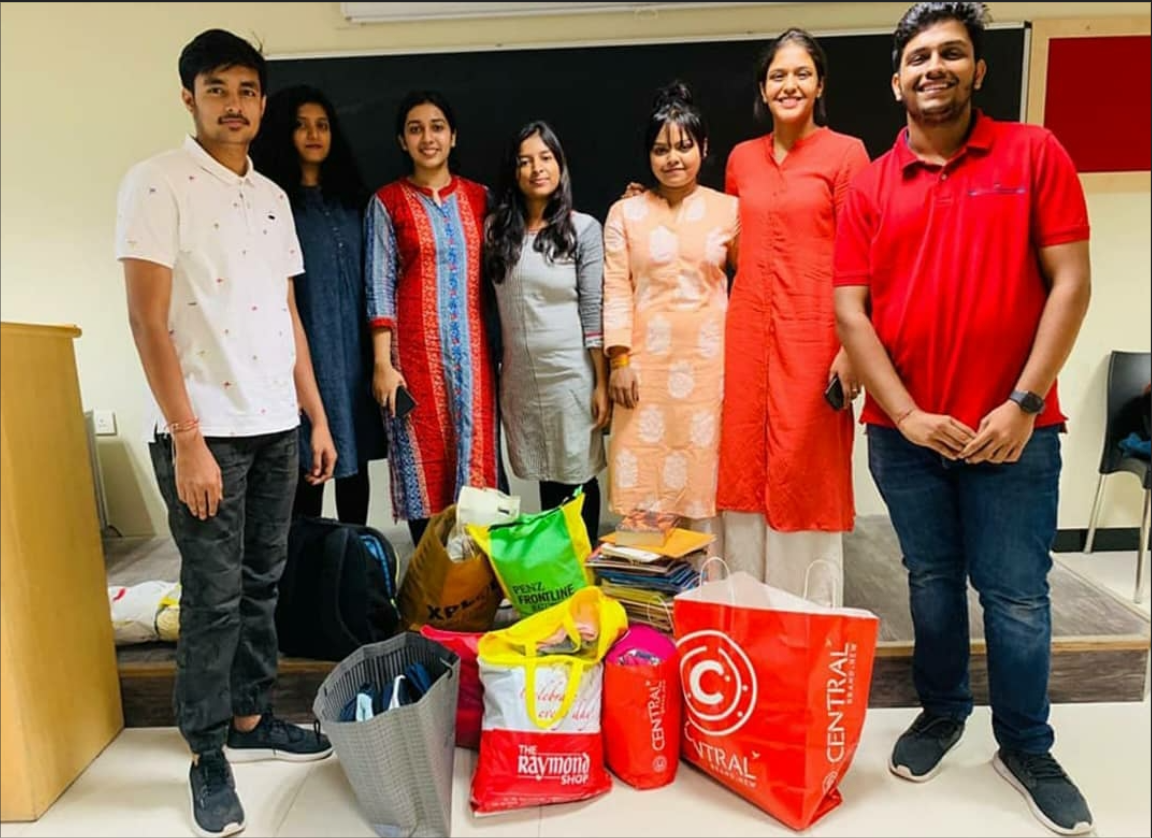
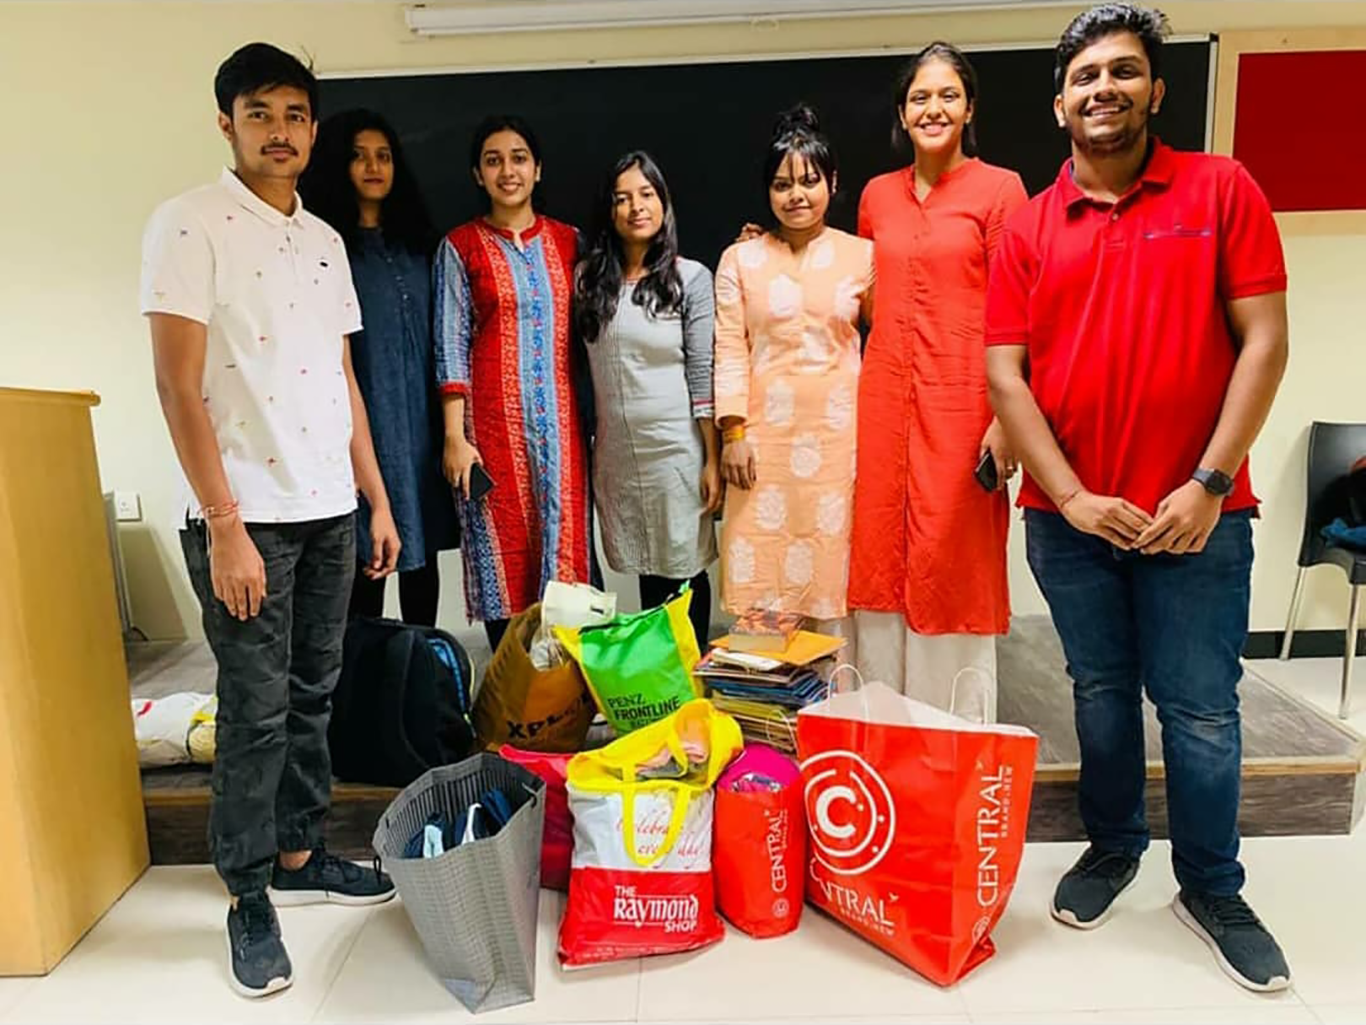
added photo in about and adjusted margin

diff --git a/public/sass/modules/_carousel.scss b/public/sass/modules/_carousel.scss
@@ -1,11 +1,9 @@
 .carousel {
     //do not change any contents/property of this class. make a separate class to overwrite the properties of this class.
-    
     --carousel-height: auto;
     //--carousel-max-height: 100vh;
     --carousel-min-height: 100vh;
     --carousel-width: 100%;
-
     overflow: hidden;
     min-height: var(--carousel-min-height);
     background-color: $grey;
@@ -50,11 +48,7 @@
             bottom: 20px;
             z-index: 12;
             .indicator {
-                @include circular-button(
-                    rgba($color: #000000, $alpha: 0.3),
-                    5px,
-                    20px
-                );
+                @include circular-button(rgba($color: #000000, $alpha: 0.3), 5px, 20px);
                 border: solid 2px $pink;
             }
             .active-dot {
@@ -70,11 +64,7 @@
             text-align: center;
             .pause-button,
             .play-button {
-                @include circular-button(
-                    rgba($color: #000000, $alpha: 0.3),
-                    0px,
-                    40px
-                );
+                @include circular-button(rgba($color: #000000, $alpha: 0.3), 0px, 40px);
                 border-style: none;
                 font-size: 40px;
                 position: relative;
@@ -97,8 +87,9 @@
         }
     }
 }
+
 .photo-carousel {
-     //make changes to carousel class properties here in this separate class to suit your carousel needs
+    //make changes to carousel class properties here in this separate class to suit your carousel needs
     --carousel-height: auto;
     --carousel-min-height: 100vh;
     --carousel-width: 100%;
@@ -122,6 +113,7 @@
         }
     }
 }
+
 .photo-carousel2 {
     //make changes to carousel class properties here in this separate class to suit your carousel needs
     --carousel-height: auto;
@@ -150,17 +142,12 @@
             align-items: center;
             padding: 5px 0;
             border-radius: 0 25px 0 0;
-
             .tracks-navbar {
                 margin-left: 30px;
                 position: static;
                 z-index: 12;
                 .indicator {
-                    @include circular-button(
-                        rgba($color: #000000, $alpha: 0.3),
-                        5px,
-                        20px
-                    );
+                    @include circular-button(rgba($color: #000000, $alpha: 0.3), 5px, 20px);
                     border: solid 2px $pink;
                 }
                 .active-dot {
@@ -174,11 +161,7 @@
                 position: static;
                 .pause-button,
                 .play-button {
-                    @include circular-button(
-                        rgba($color: #000000, $alpha: 0.3),
-                        0px,
-                        40px
-                    );
+                    @include circular-button(rgba($color: #000000, $alpha: 0.3), 0px, 40px);
                     border-style: none;
                     font-size: 40px;
                     position: relative;
@@ -209,7 +192,6 @@
     --carousel-height: auto;
     --carousel-min-height: 100vh;
     --carousel-width: 100%;
-
     margin: 0 auto;
     border-radius: 25px;
     box-shadow: 5px 5px 50px rgba(0, 0, 0, 0.2);
@@ -225,11 +207,7 @@
                         position: absolute;
                         top: 0;
                         left: 0;
-                        background: linear-gradient(
-                            to right,
-                            rgba(0, 0, 0, 0.95) 0%,
-                            #ffffff00 100%
-                        );
+                        background: linear-gradient(to right, rgba(0, 0, 0, 0.95) 0%, #ffffff00 100%);
                     }
                     .about {
                         min-height: 120px;
@@ -276,25 +254,23 @@
     }
 }
 
-.about-carousel{
+.about-carousel {
     //make changes to carousel class properties here in this separate class to suit your carousel needs
     margin: 0 auto;
-    --carousel-min-height: 170px;
+    --carousel-min-height: 280px;
     --carousel-width: 27vw;
-
-    @media(max-width:992.5px){
-        margin-top:40px;
+    @media(max-width: 992.5px) {
+        margin-top: 40px;
         --carousel-min-height: 50vw;
         --carousel-width: 80vw;
     }
     .carousel-container {
-        .tracks-container{
-        }
-        .tracks-navbar{
+        .tracks-container {}
+        .tracks-navbar {
             left: 1vw;
             bottom: 10px;
         }
-        .pause-button-container{
+        .pause-button-container {
             right: 1vw;
             bottom: 0px;
         }

diff --git a/about.html b/about.html
@@ -15,11 +15,12 @@
 
     <!-- stylesheet -->
     <link rel="shortcut icon" href="public/img/favicon.png" type="image/x-icon" />
-    <link rel="stylesheet" href="public/css/app.min.css" /> <!--css stylesheet: committed by @ashuvssut* -->
+    <link rel="stylesheet" href="public/css/app.min.css" />
+    <!--css stylesheet: committed by @ashuvssut* -->
     <link rel="stylesheet" href="public/css/style.css">
     <!--Fonts -->
     <link href="https://fonts.googleapis.com/css2?family=Muli:wght@300;600;900&display=swap" rel="stylesheet" />
-    
+
     <!--font-awesome -->
     <script src="https://cdnjs.cloudflare.com/ajax/libs/font-awesome/5.14.0/js/all.min.js" integrity="sha512-YSdqvJoZr83hj76AIVdOcvLWYMWzy6sJyIMic2aQz5kh2bPTd9dzY3NtdeEAzPp/PhgZqr4aJObB3ym/vsItMg==" crossorigin="anonymous"></script>
     <!-- <script defer src="https://use.fontawesome.com/releases/v5.0.7/js/all.js"></script> -->
@@ -107,30 +108,30 @@
 
     <section class="container mt-lg-5">
         <div class="row">
-            <div class="col-lg-4 mt-lg-5 pr-lg-5">
+            <div class="col-lg-4 mt-lg-5 ">
                 <section class="carousel about-carousel">
                     <div class="carousel-container from-y-axis">
                         <div class="tracks-container">
                             <ul class="tracks-ul">
                                 <li class="carousel-slide active-slide">
-                                    <img src="public/img/about-carousel-1.jpg" class="d-block w-100" alt="bg-img">
+                                    <img src="public/img/about-carousel-1.png" class="d-block w-100" alt="bg-img">
                                 </li>
                                 <li class="carousel-slide">
-                                    <img src="public/img/about-carousel-2.jpg" class="d-block w-100" alt="bg-img">
+                                    <img src="public/img/about-carousel-2.png" class="d-block w-100" alt="bg-img">
                                 </li>
                                 <li class="carousel-slide">
                                     <img src="public/img/about-carousel-3.png" class="d-block w-100" alt="bg-img">
                                 </li>
-                                <!-- <li class="carousel-slide">
-                                    <img src="public/img/about-carousel-4.jpg" class="d-block w-100" alt="bg-img">
-                                </li> -->
+                                <li class="carousel-slide">
+                                    <img src="public/img/about-carousel-4.png" class="d-block w-100" alt="bg-img">
+                                </li>
                             </ul>
                         </div>
                         <div class="tracks-navbar">
                             <button class="indicator active-dot"></button>
                             <button class="indicator"></button>
                             <button class="indicator"></button>
-                            <!-- <button class="indicator"></button> -->
+                            <button class="indicator"></button>
                         </div>
                         <div class="pause-button-container">
                             <button class="pause-n-play-btn pause-button"></button>
@@ -140,8 +141,8 @@
             </div>
             <div class="col-lg-8">
                 <div>
-                    <h3 class="pt-lg-ok4">WHO WE ARE ?</h3>
-                    <p class="mt-4">Our family staunchly endeavours to eradicate ignorance and strives hard to attain gender equality. We promote symbiotic relationships and are highly motivated, ignited and enthusiastic towards our dreams, duly standing by our motto
+                    <h3 class="mt-sm-5 ml-lg-5">WHO WE ARE ?</h3>
+                    <p class="mt-4 ml-lg-5">Our family staunchly endeavours to eradicate ignorance and strives hard to attain gender equality. We promote symbiotic relationships and are highly motivated, ignited and enthusiastic towards our dreams, duly standing by our motto
                         of "We Care, We Serve".
                     </p>
                     <div>
